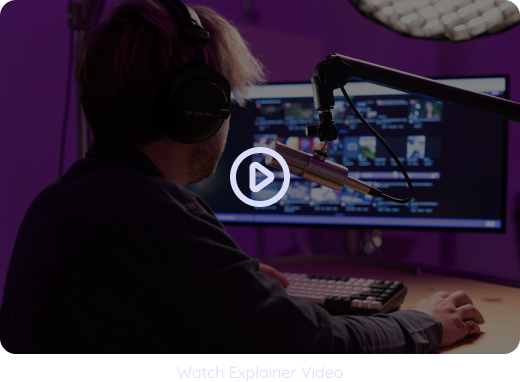
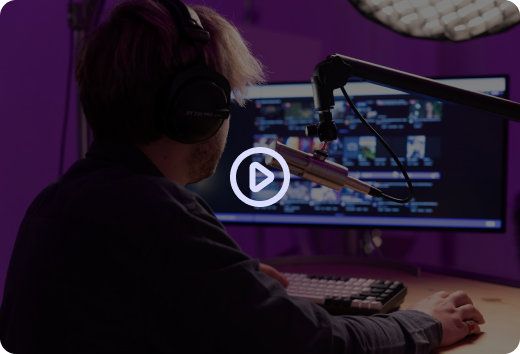
removed unnecessary assets

diff --git a/src/pages/login/step1.tsx b/src/pages/login/step1.tsx
@@ -20,7 +20,7 @@ export const Step1: React.FC = () => {
                         Welcome to Torque AI! Let's set up your account to unlock powerful marketing insights.
                     </div>
                     <div className='pt-[32px] w-full max-h-[382px] h-full'>
-                        
+                        <img src={imageAssets.content} alt='Video' />
                     </div>
                     <div className='pt-[8px] font-b3-400 font-grey1'>
                         Watch Explainer Video

diff --git a/src/utils/constant.ts b/src/utils/constant.ts
@@ -25,9 +25,6 @@ export const imageAssets = {
   williams: `${LOGIN_IMAGES}/williams.png`,
   profile: `${ASSET_IMAGES}/profile.png`,
   symbol: `${ASSET_IMAGES}/symbol.png`,
-  creatives: `${ASSET_IMAGES}/creatives.svg`,
-  reports: `${ASSET_IMAGES}/reports.svg`,
-  strategies: `${ASSET_IMAGES}/strategies.svg`,
 };
 
 export const iconAssets = {
